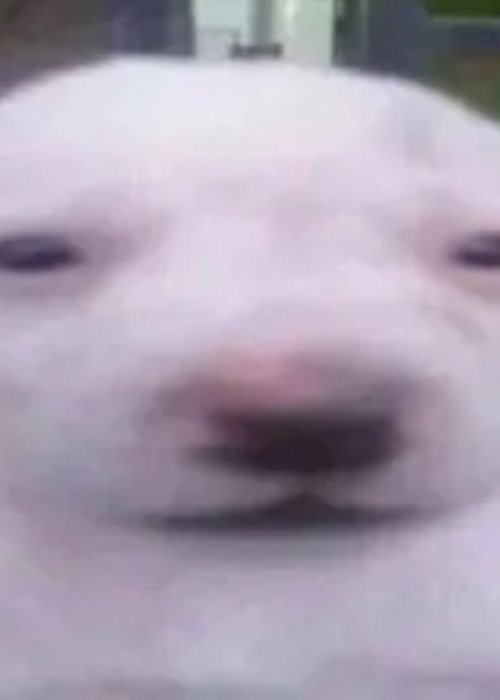
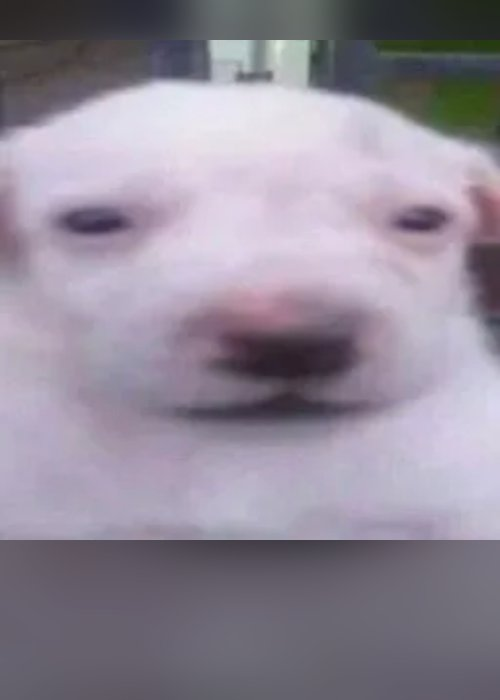
Dézoome l'image de Zorka
Claude-Session: https://claude.ai/code/session_012zh4EtRGLuwvrd88Lowo4N

diff --git a/index.html b/index.html
@@ -584,7 +584,7 @@ const TEAM_PHOTOS={};
 const WIDE=new Set(["speciales-les","rosters-valo","rosters-lol","speciales-ratoon","speciales-ga"]);
 const CHAMP_KEY={"Kai'Sa":"Kaisa","Kha'Zix":"Khazix","K'Santé":"KSante"};
 const champUrl=n=>`https://ddragon.leagueoflegends.com/cdn/img/champion/loading/${CHAMP_KEY[n]||n.replace(/[^A-Za-z]/g,"")}_0.jpg`;
-const IMG_V="6";
+const IMG_V="7";
 const roleSvg=(r,cls)=>ROLE_IMG[r]?`<i class="${cls} rimg" style="--m:url(${ROLE_IMG[r]})"></i>`:ROLE_SVG[r]?`<svg class="${cls}" viewBox="0 0 24 24" fill="none" stroke="currentColor" stroke-width="1.8" stroke-linecap="round" stroke-linejoin="round">${ROLE_SVG[r]}</svg>`:"";
 function cardHTML(c,{holo=false,locked=false}={}){
   const t=SET_BY[c.set];
